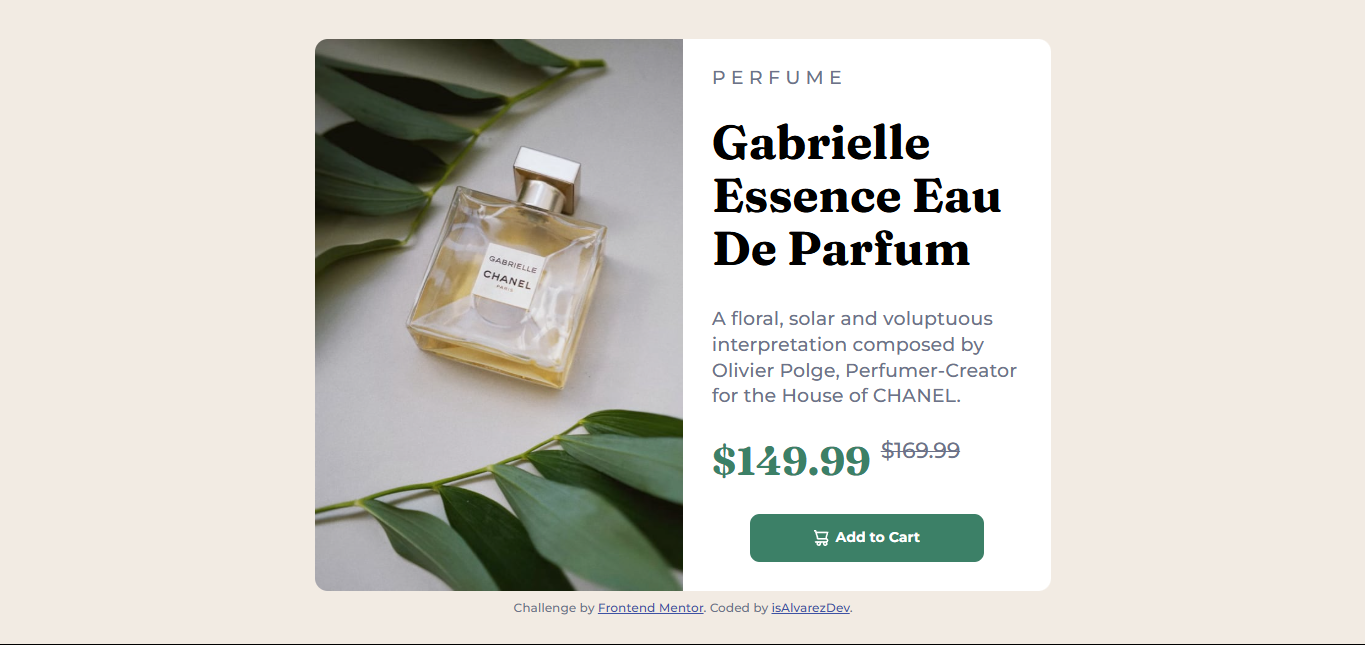
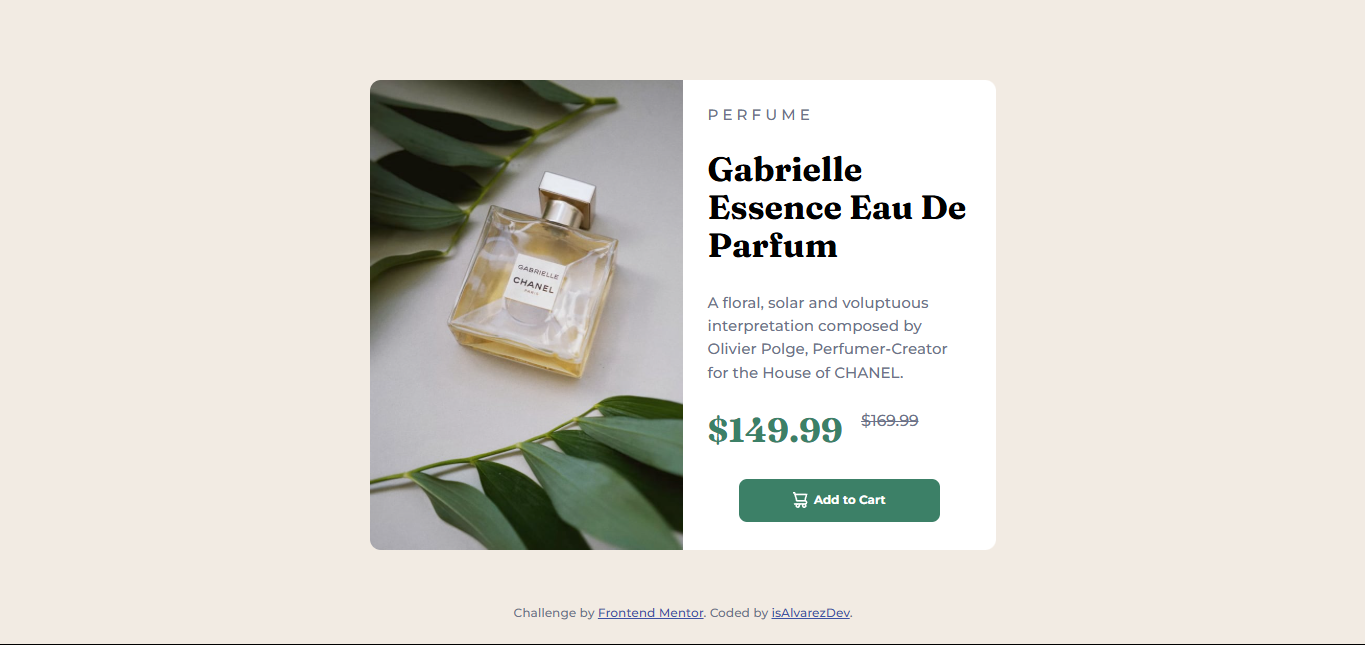
Final version of the product preview card component

Changed region(s): [[0.2154, 0.062, 0.7692, 0.9612]]

diff --git a/learning-paths/product-preview-card-component/styles.css b/learning-paths/product-preview-card-component/styles.css
@@ -55,15 +55,15 @@ img, picture {
 
 h1 {
     color: initial;
-    font-size: clamp(1rem, 0.75rem + 1.5vw, 1.2rem);
+    font-size: clamp(1rem, 0.75rem + 1.5vw, 1rem);
 }
 
 .main__p, .main__perfume {
-    font-size: clamp(.51rem, 0.75rem + 1.5vw, .54rem);
+    font-size: clamp(.45rem, 0.75rem + 1.5vw, .50rem);
 }
 
 .main__p {
-    line-height: 1.5;
+    line-height: 1.7;
 }
 
 .main__prices {
@@ -84,7 +84,7 @@ h1, .main__prices {
 
 .main__high-price {
     text-decoration:line-through;
-    font-size: clamp(.51rem, 0.75rem + 1.5vw, .61rem);
+    font-size: clamp(.4rem, 0.75rem + 1.5vw, .52rem);
     align-self: top;
 }
 
